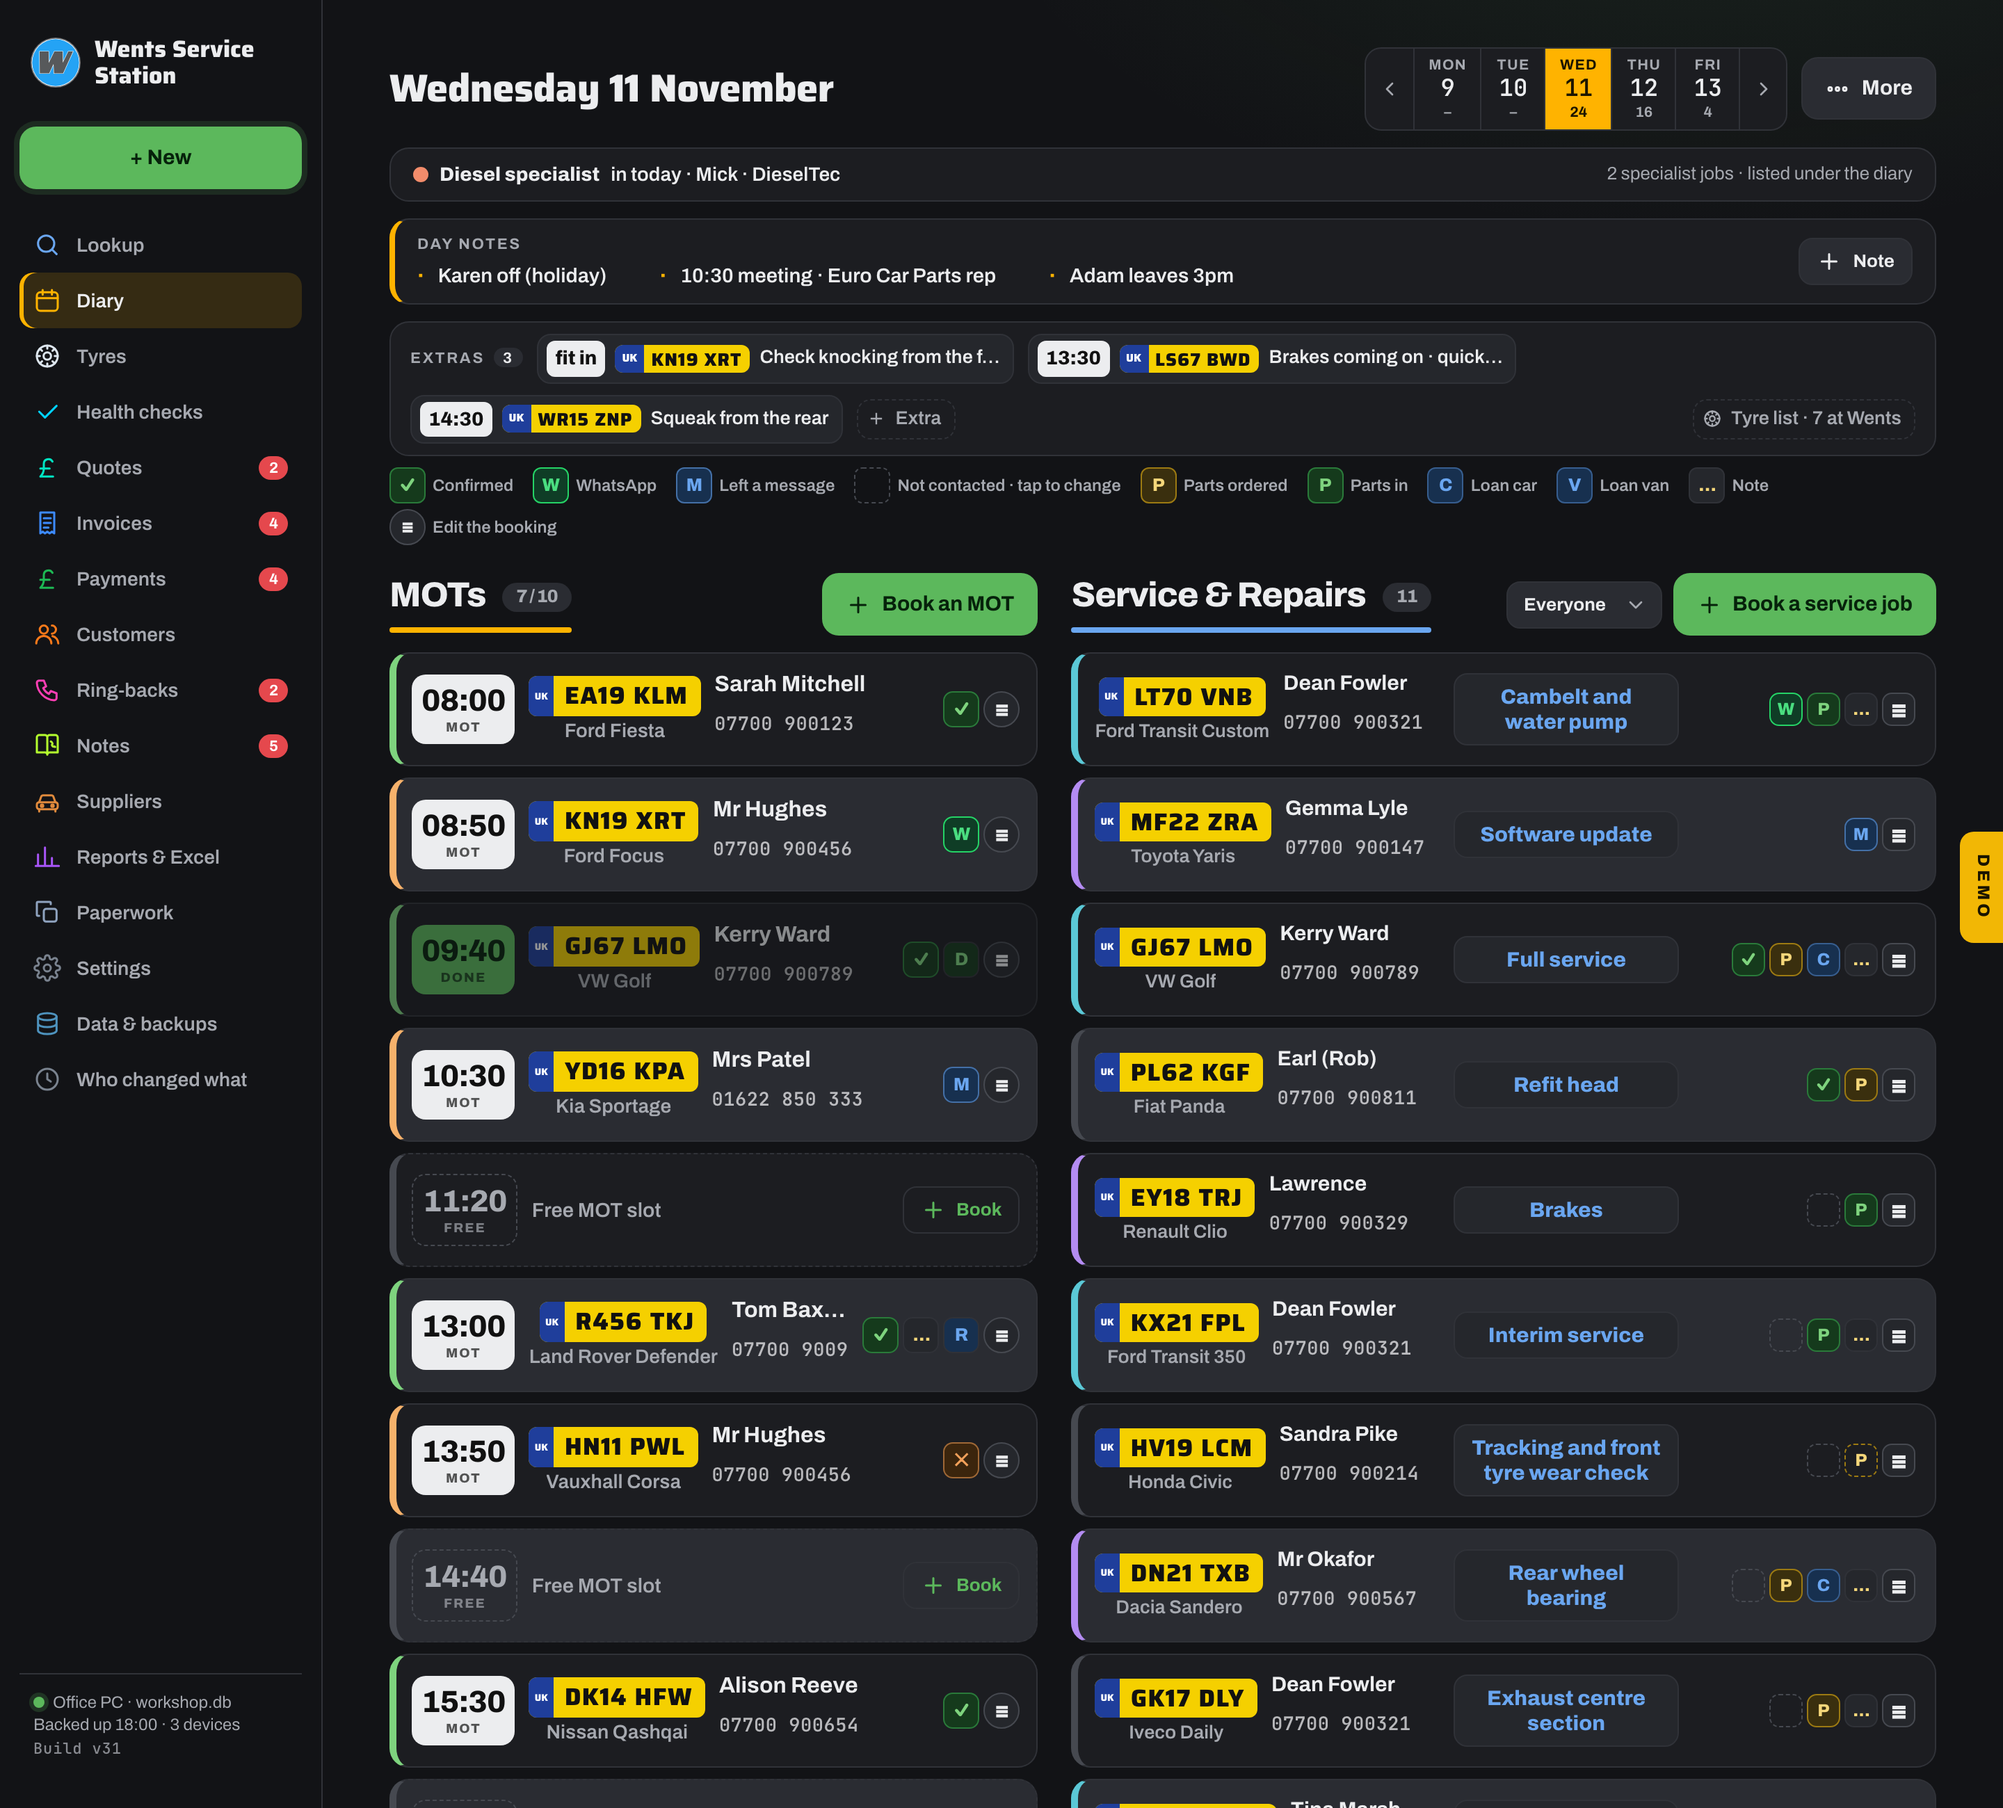
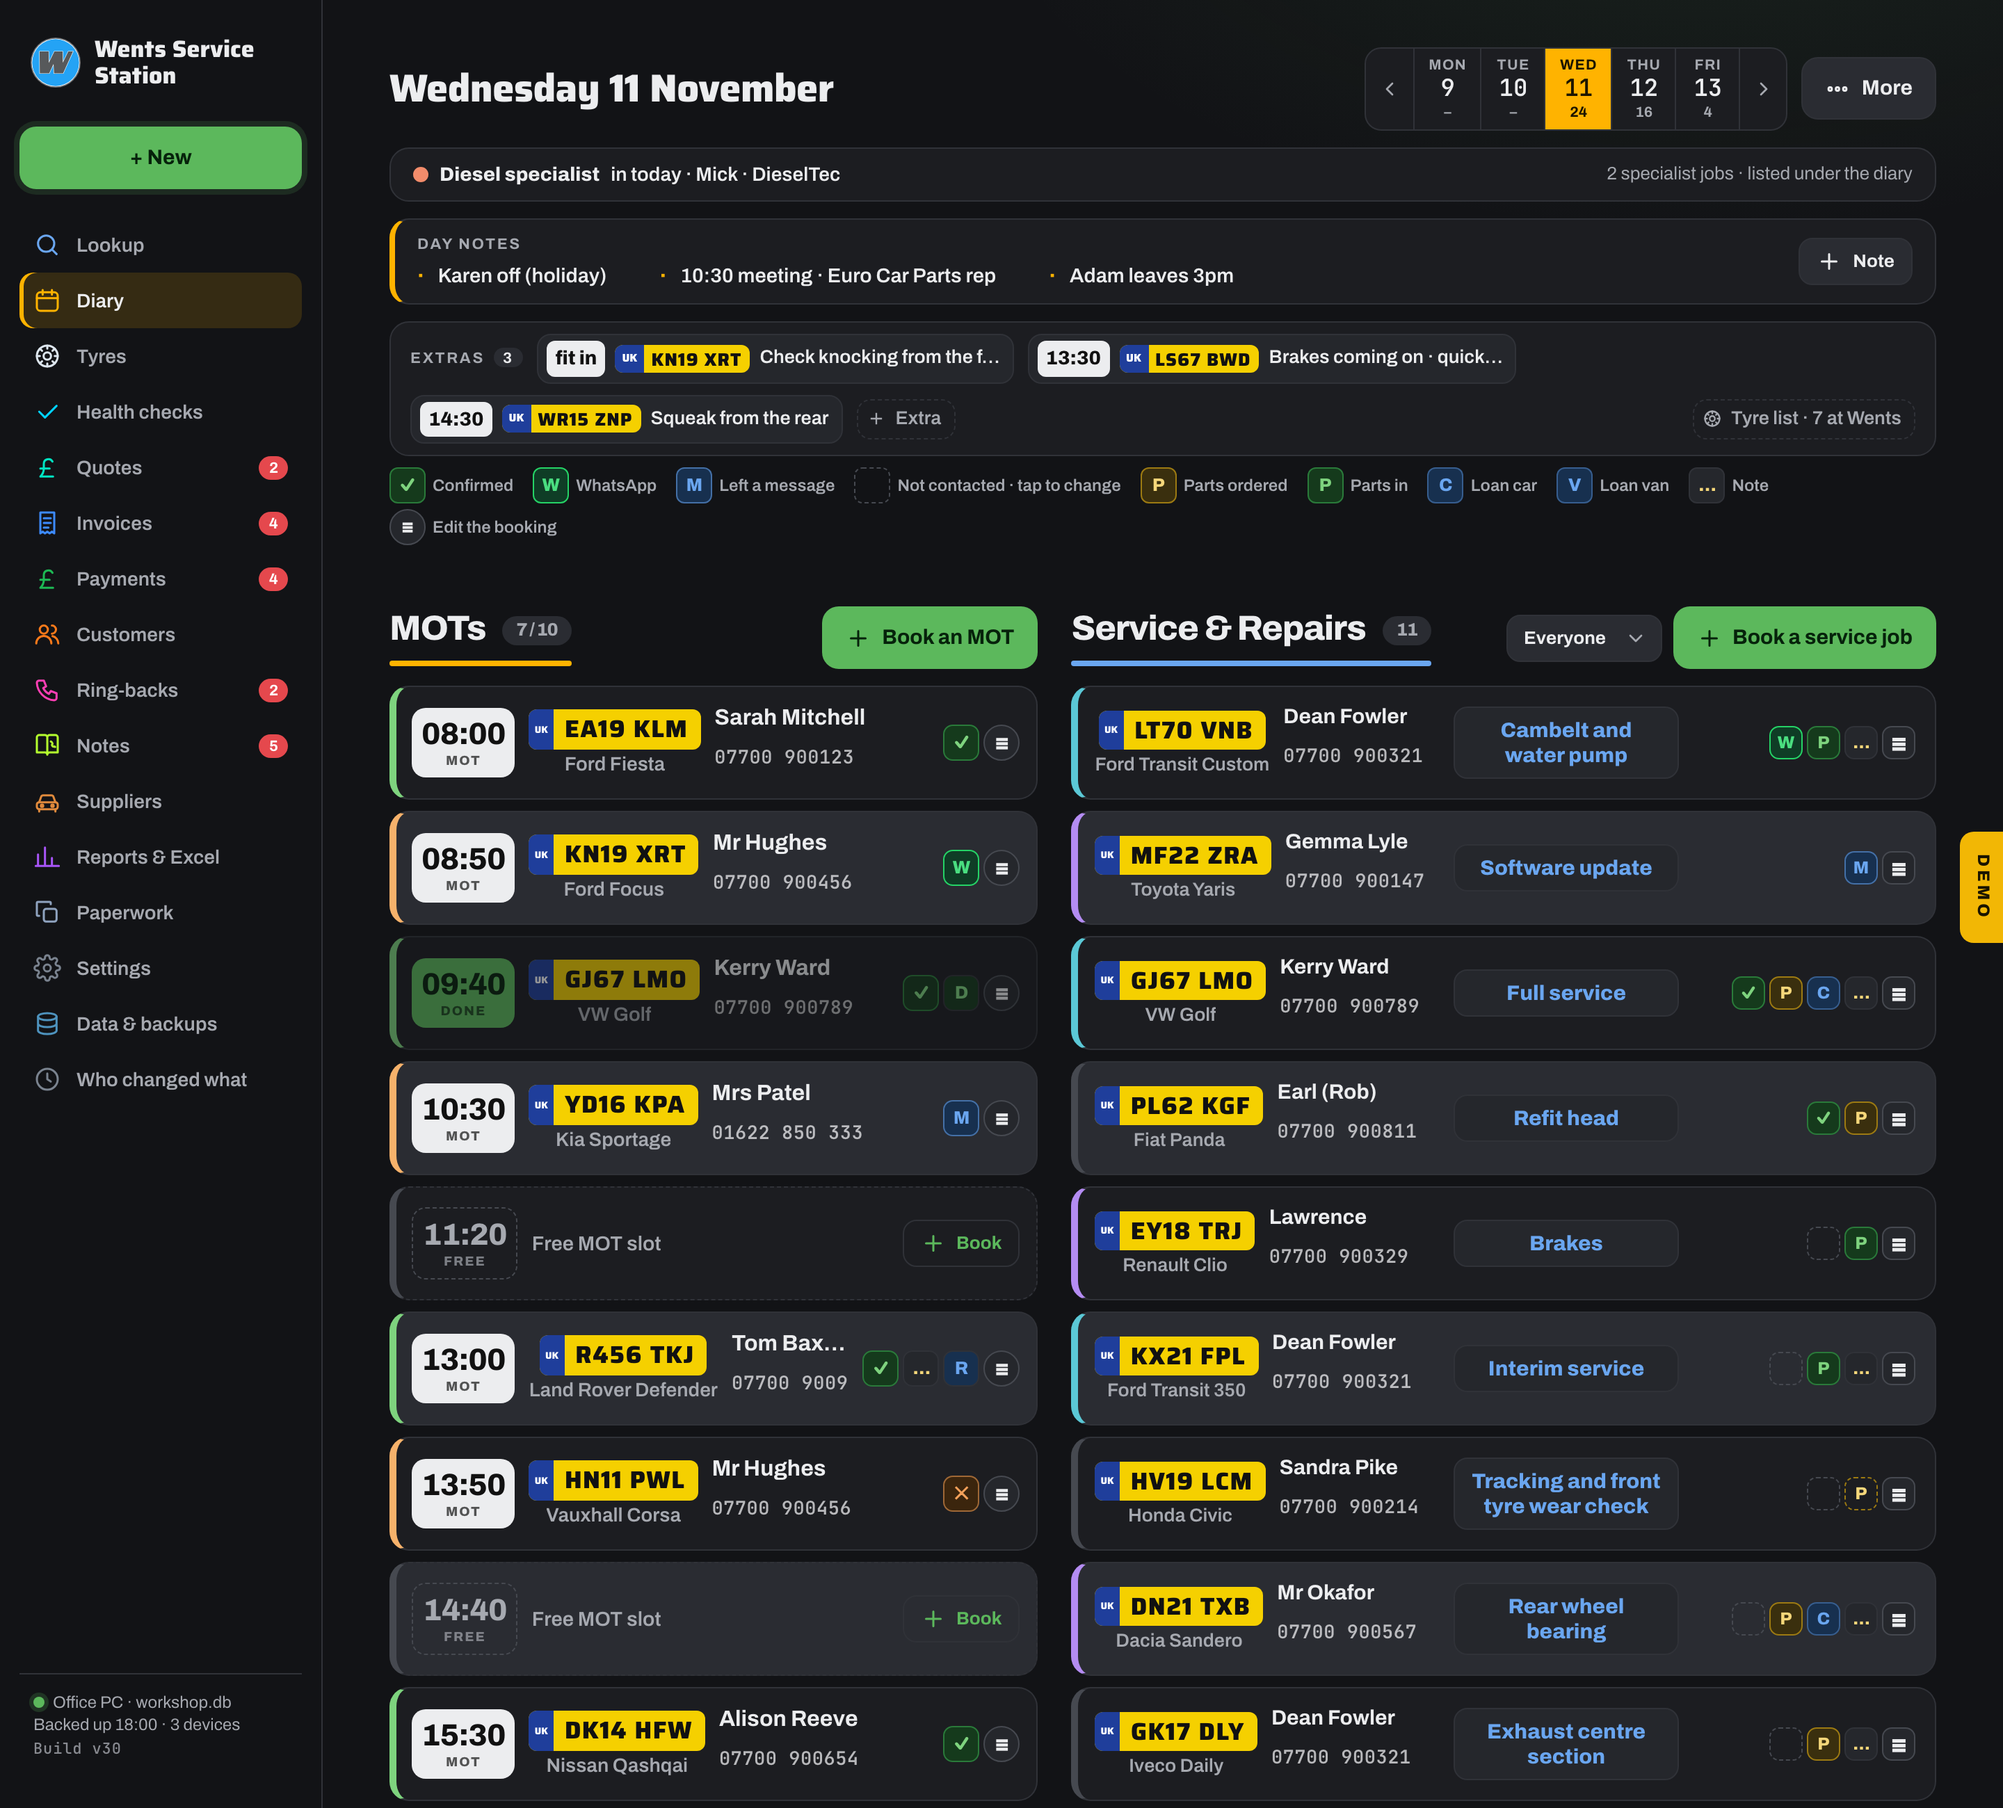
Mock round 36: clear gap between the legend row and the MOTs and Service & Repairs column titles so the top of the diary is less cluttered; workshop-v32

Changed region(s): [[0.1875, 0.3115, 0.9688, 1.0], [0.8125, 0.81, 0.9688, 1.0], [0.75, 0.9346, 0.8125, 0.9658]]

diff --git a/mock/index.html b/mock/index.html
@@ -373,7 +373,7 @@ a.stat{display:block} a.stat:hover{border-color:var(--line-strong)}
 .dv .sq.pt.todo{background:transparent;border-style:dashed;border-color:var(--flag-line);color:var(--flag-fg)} .dv .sq.pt.ordered{background:var(--flag-bg);border-color:var(--flag-line);color:var(--flag-fg)} .dv .sq.pt.in{background:#153A1C;border-color:#2a7a3a;color:#7ED37E}
 .dv .sq.ln{background:#17304F;border-color:rgba(106,166,240,.4);color:var(--accent)} .dv .sq.ng{background:#3A1416;border-color:rgba(240,138,142,.45);color:#F08A8E} .dv .sq.nq{color:var(--flag-fg);letter-spacing:-.05em} .dv .sq.ap{background:#153A1C;color:#7ED37E} .dv .sq.rd{background:#17304F;color:var(--accent)} .dv .sq.dn{background:#153A1C;color:#7ED37E} .dv .sq.wl{color:var(--flag-fg);border-color:var(--flag-line)} .dv .sq.wl.moved,.dv .sq.wl.rebooked{color:#7ED37E;border-color:#2a7a3a}
 .dv .wlb{width:26px;height:26px;border-radius:8px;padding:0;justify-content:center;flex:none} .dv .wlb svg{width:13px;height:13px} .dvslot .rt{max-width:100px;gap:3px} .dvslot .sq,.dvslot .wlb{width:22px;height:22px;font-size:11.5px;border-radius:7px} .dvslot .sq svg,.dvslot .wlb svg{width:12px;height:12px} .dvslot .bm .veh small{max-width:150px}
-.dvkey{display:flex;flex-wrap:wrap;align-items:center;gap:4px 14px;margin:-4px 0 10px;font-size:12px;color:var(--muted);font-weight:600} .dvkey span{display:inline-flex;align-items:center;gap:5px} .dvkey .wlb{width:20px;height:20px;border-radius:6px;cursor:default} .dvkey .wlb svg{width:12px;height:12px;stroke:currentColor;fill:none;stroke-width:2.2} .dvkey .sq{width:20px;height:20px;font-size:11px;border-radius:6px;font-style:normal}
+.dvkey{display:flex;flex-wrap:wrap;align-items:center;gap:4px 14px;margin:-4px 0 34px;font-size:12px;color:var(--muted);font-weight:600} .dvkey span{display:inline-flex;align-items:center;gap:5px} .dvkey .wlb{width:20px;height:20px;border-radius:6px;cursor:default} .dvkey .wlb svg{width:12px;height:12px;stroke:currentColor;fill:none;stroke-width:2.2} .dvkey .sq{width:20px;height:20px;font-size:11px;border-radius:6px;font-style:normal}
 .dvslot.free{min-height:52px;padding-top:7px;padding-bottom:7px;border-style:dashed;border-left-style:solid} .dvslot.free .bm{color:var(--muted);font-size:14.5px;font-weight:600} .dvslot.free .rt .btn{color:var(--green)}
 .dvslot.done{opacity:.55} .dvslot.done .tm{background:var(--green);color:var(--green-fg,#0B1424)}
 .dv .nextfree{display:flex;align-items:center;gap:10px;padding:8px 14px;border-top:1px solid var(--line);color:var(--muted);font-size:13.5px;background:var(--sunk)} .dv .nextfree b{color:var(--fg)} .dv .nextfree a{margin-left:auto;color:var(--accent);font-weight:700;cursor:pointer} .dv .nextfree svg{width:16px;height:16px;stroke:currentColor;fill:none;stroke-width:2;flex:none}
@@ -885,7 +885,7 @@ a.stat{display:block} a.stat:hover{border-color:var(--line-strong)}
 /* round 19 · diary: notes across the top, section buttons, booking form in two equal columns */
 .secctl{display:flex;gap:8px;align-items:center;flex-wrap:wrap} .secctl .sel{margin:0}
 .dvsec .sechd{margin-bottom:8px} .dvsec .sechd .btn.pri{box-shadow:none}
-.dv .dvsec.colh .sechd{align-items:center;margin-bottom:12px;padding-top:10px;flex-wrap:nowrap} .dv .dvsec.colh .sechd>div{min-width:0} .dv .dvsec.colh .secctl{flex-wrap:nowrap;flex:none} .dv .dvsec.colh .secctl .sel{max-width:112px} .dv .dvsec.colh .sechd .btn.pri{white-space:nowrap} .dv .dvsec.colh h2{position:relative;white-space:nowrap;font-size:25px;font-weight:900;letter-spacing:-.025em;line-height:1;padding:0 0 12px;gap:12px;align-items:baseline} .dv .dvsec.colh h2::after{content:'';position:absolute;left:0;bottom:0;height:4px;width:100%;border-radius:2px;background:var(--hc)} .dv .dvsec.colh.mot{--hc:#FFB300} .dv .dvsec.colh.svc{--hc:var(--accent)} .dv .dvsec.colh h2 .pill{font-size:13px;font-weight:800;padding:4px 10px;transform:translateY(-3px)} @media (min-width:1600px){.dv .dvsec.colh h2{font-size:30px}} @media (max-width:600px){.dv .dvsec.colh h2{font-size:26px;padding-bottom:9px} .dv .dvsec.colh h2::after{height:3px}}
+.dv .dvsec.colh .sechd{align-items:center;margin-bottom:12px;padding-top:10px;flex-wrap:nowrap} .dv .dvsec.colh .sechd>div{min-width:0} .dv .dvsec.colh .secctl{flex-wrap:nowrap;flex:none} .dv .dvsec.colh .secctl .sel{max-width:112px} .dv .dvsec.colh .sechd .btn.pri{white-space:nowrap} .dv .dvsec.colh h2{position:relative;white-space:nowrap;font-size:25px;font-weight:900;letter-spacing:-.025em;line-height:1;padding:0 0 12px;gap:12px;align-items:baseline} .dv .dvsec.colh h2::after{content:'';position:absolute;left:0;bottom:0;height:4px;width:100%;border-radius:2px;background:var(--hc)} .dv .dvsec.colh.mot{--hc:#FFB300} .dv .dvsec.colh.svc{--hc:var(--accent)} .dv .dvsec.colh h2 .pill{font-size:13px;font-weight:800;padding:4px 10px;transform:translateY(-3px)} @media (min-width:1600px){.dv .dvsec.colh h2{font-size:30px}} @media (max-width:600px){.dvkey{margin-bottom:22px} .dv .dvsec.colh h2{font-size:26px;padding-bottom:9px} .dv .dvsec.colh h2::after{height:3px}}
 /* round 35: bigger booking tiles, same height in both columns */ .dv .dvslot,.dv .dvslot.free,.dv .dvjob{min-height:82px;box-sizing:border-box} .dv .dvslot{padding:10px 12px 10px 11px;gap:4px 10px} .dv .dvslot.free{padding-top:10px;padding-bottom:10px} .dv .dvjob{padding:10px 14px 10px 12px} .dv .dvramp,.dv .dvlist{gap:8px} .dv .dvslot .tm{font-size:22px;min-width:70px;padding:8px 7px 6px} .dv .bm .plate{font-size:17.5px} .dv .bm .plate span{padding:6px 9px 5px 8px} .dv .bm .veh small,.dv .dvjob .bm .veh small{font-size:14px} .dv .bm .cus b,.dv .dvjob .bm .cus b{font-size:16px} .dv .bm .cus .ph,.dv .bm .cus .muted,.dv .dvjob .bm .cus .ph{font-size:13.5px} .dv .dvjob .jbx .jb{font-size:15px} .dv .dvjob .jbx{padding:7px 10px} .dv .sq,.dv .wlb{width:28px;height:28px;font-size:14px} .dvslot .sq,.dvslot .wlb{width:28px;height:28px;font-size:14px} .dv .dvslot.free .muted{font-size:15.5px} .dvkey .sq,.dvkey .wlb{width:22px;height:22px;font-size:12px} .dvkey .wlb.edb{font-size:13px} @media (min-width:1081px){.dv .dvjob{grid-template-columns:minmax(0,1fr) 172px 150px} .dv .dvjob .jbx{width:162px;margin-right:0} .dv .dvjob .rt{width:150px;max-width:150px} .dvslot .rt{max-width:150px} .dv .sq,.dv .wlb,.dvslot .sq,.dvslot .wlb{width:26px;height:26px;font-size:13px} .dv .dvjob .rt,.dvslot .rt{gap:3px} .dv .dvjob .bm .cus b{font-size:15px} .dv .dvjob .bm .veh small{font-size:13.5px}}
 .bk2{display:grid;grid-template-columns:1fr 1fr;gap:0 18px} .bk2>.field{min-width:0} .bk2.bkx{grid-template-columns:repeat(auto-fit,minmax(230px,1fr))}
 .bkbox h2{display:flex;align-items:baseline;gap:12px;flex-wrap:wrap} .bkday{font-size:14px;font-weight:700;color:var(--sc,var(--accent));letter-spacing:.02em}

diff --git a/mock/sw.js b/mock/sw.js
@@ -1,6 +1,6 @@
 // Workshop (Garage System mock) offline support: keeps a copy of the app so it opens with no signal.
 // Bump VERSION whenever index.html, makes.js, logos or icons change, so installed copies pick up the update.
-const VERSION = 'workshop-v31';
+const VERSION = 'workshop-v32';
 const CORE = [
   './',
   'index.html',
